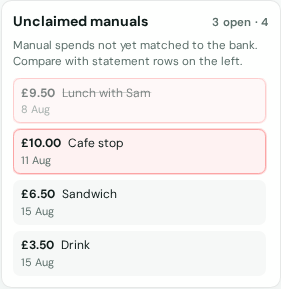
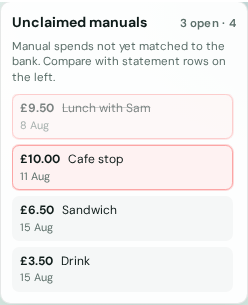
Float unclaimed manuals in the right viewport gutter
Keep the import preview table at full content width by fixing the
unclaimed-manuals panel beside the centered shell on wide desktops,
instead of sharing a two-column row inside the content column.

diff --git a/static/style.css b/static/style.css
@@ -1705,7 +1705,6 @@ span.preview-boundary-pill {
     overflow-x: auto;
     -webkit-overflow-scrolling: touch;
     min-width: 0;
-    flex: 1 1 auto;
 }
 
 .import-preview-body {
@@ -1718,12 +1717,12 @@ span.preview-boundary-pill {
 .import-unclaimed-manuals {
     border: 1px solid var(--line, rgba(15, 40, 34, 0.12));
     border-radius: 0.65rem;
-    background: rgba(255, 255, 255, 0.82);
+    background: rgba(255, 255, 255, 0.9);
     padding: 0.55rem 0.7rem 0.7rem;
 }
 
 .import-unclaimed-manuals.hidden {
-    display: none;
+    display: none !important;
 }
 
 .import-unclaimed-manuals-details {
@@ -1846,36 +1845,34 @@ span.preview-boundary-pill {
     display: none;
 }
 
-@media (min-width: 1100px) {
-    .import-preview-body {
-        flex-direction: row;
-        align-items: flex-start;
-        gap: 1rem;
-    }
-
-    .import-preview-scroll {
-        flex: 1 1 auto;
-        min-width: 0;
-    }
-
-    .import-unclaimed-manuals {
-        flex: 0 0 17.5rem;
-        width: 17.5rem;
-        position: sticky;
-        top: 1rem;
-        align-self: flex-start;
-        max-height: calc(100vh - 2rem);
+/*
+ * Wide desktops: float in the right viewport gutter beside the centered
+ * .app-shell (max 1120px) so the preview table keeps full content width.
+ * Needs ~15.5rem + gap in the right gutter → ≈1640px viewport.
+ */
+@media (min-width: 1640px) {
+    .import-unclaimed-manuals:not(.hidden) {
+        position: fixed;
+        top: 5.5rem;
+        left: calc(50% + 560px + 0.75rem);
+        width: 15.5rem;
+        max-width: calc(50vw - 560px - 1.5rem);
+        max-height: calc(100vh - 6.5rem);
+        margin: 0;
+        z-index: 30;
         overflow: hidden;
         display: flex;
         flex-direction: column;
-        box-shadow: 0 8px 24px rgba(15, 40, 34, 0.06);
+        box-shadow: 0 12px 32px rgba(15, 40, 34, 0.12);
+        backdrop-filter: blur(10px);
+        background: rgba(255, 255, 255, 0.94);
     }
 
     .import-unclaimed-manuals-details {
         display: flex;
         flex-direction: column;
         min-height: 0;
-        max-height: calc(100vh - 2.5rem);
+        max-height: calc(100vh - 7rem);
         overflow: hidden;
     }
 
@@ -1890,7 +1887,6 @@ span.preview-boundary-pill {
         padding-right: 0.15rem;
     }
 
-    /* Keep summary always visible; details stay open on desktop for comparison */
     .import-unclaimed-manuals-summary {
         cursor: default;
         pointer-events: none;

diff --git a/tests/test_manual_match_import.py b/tests/test_manual_match_import.py
@@ -233,4 +233,5 @@ class TestUnmatchedManualsSidebar(unittest.TestCase):
         self.assertIn('unmatched_manuals', js)
         self.assertIn('renderUnclaimedManuals', js)
         self.assertIn('import-unclaimed-manuals', css)
-        self.assertIn('position: sticky', css)
+        self.assertIn('position: fixed', css)
+        self.assertIn('50% + 560px', css)
